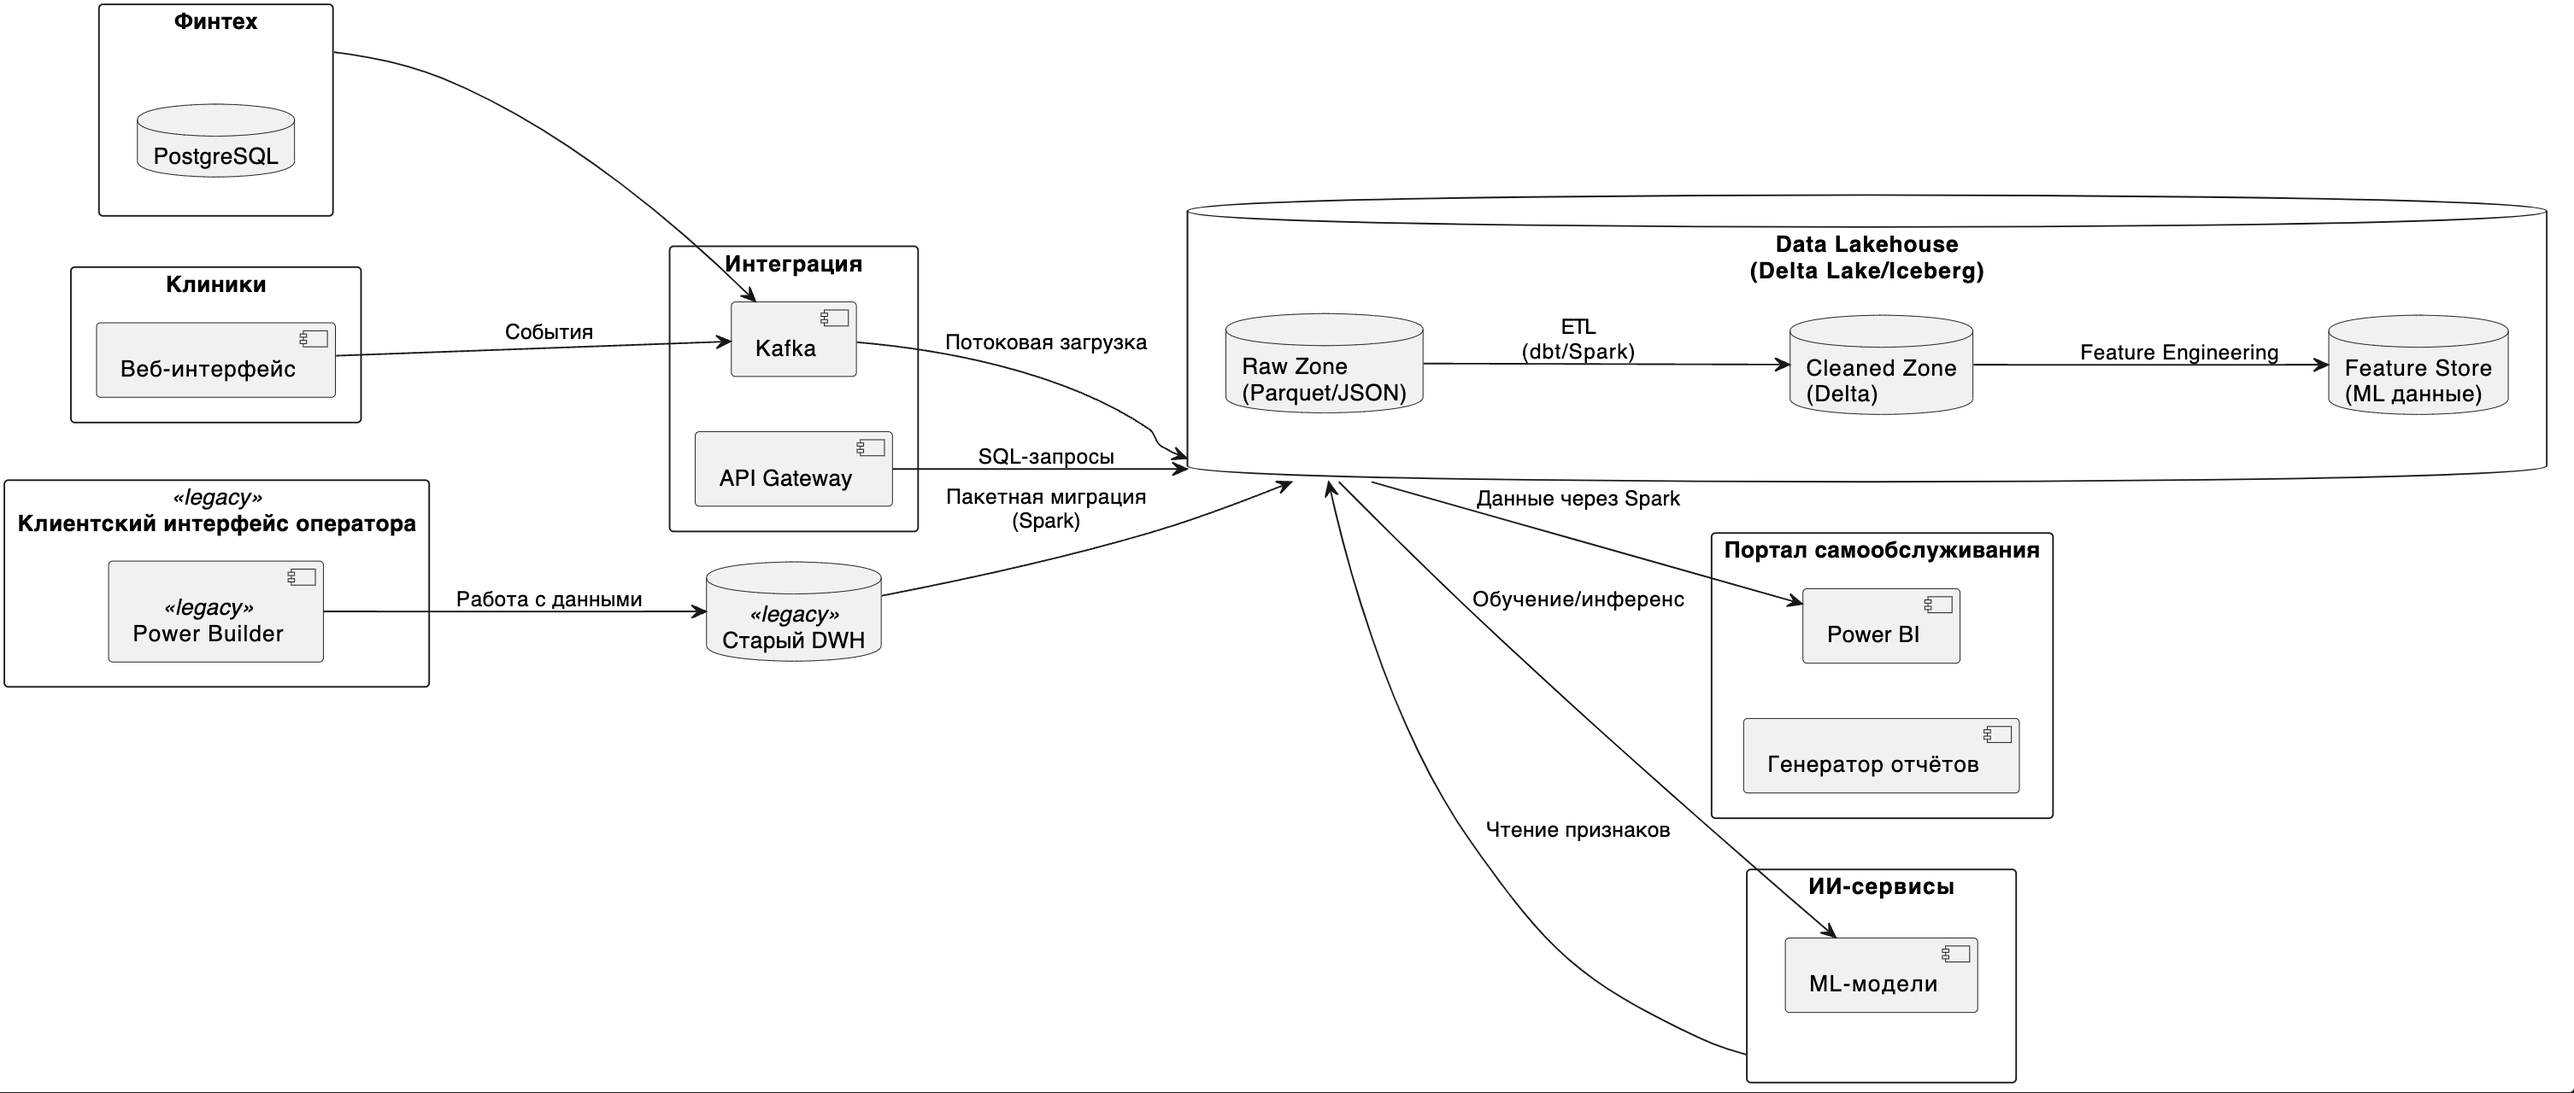
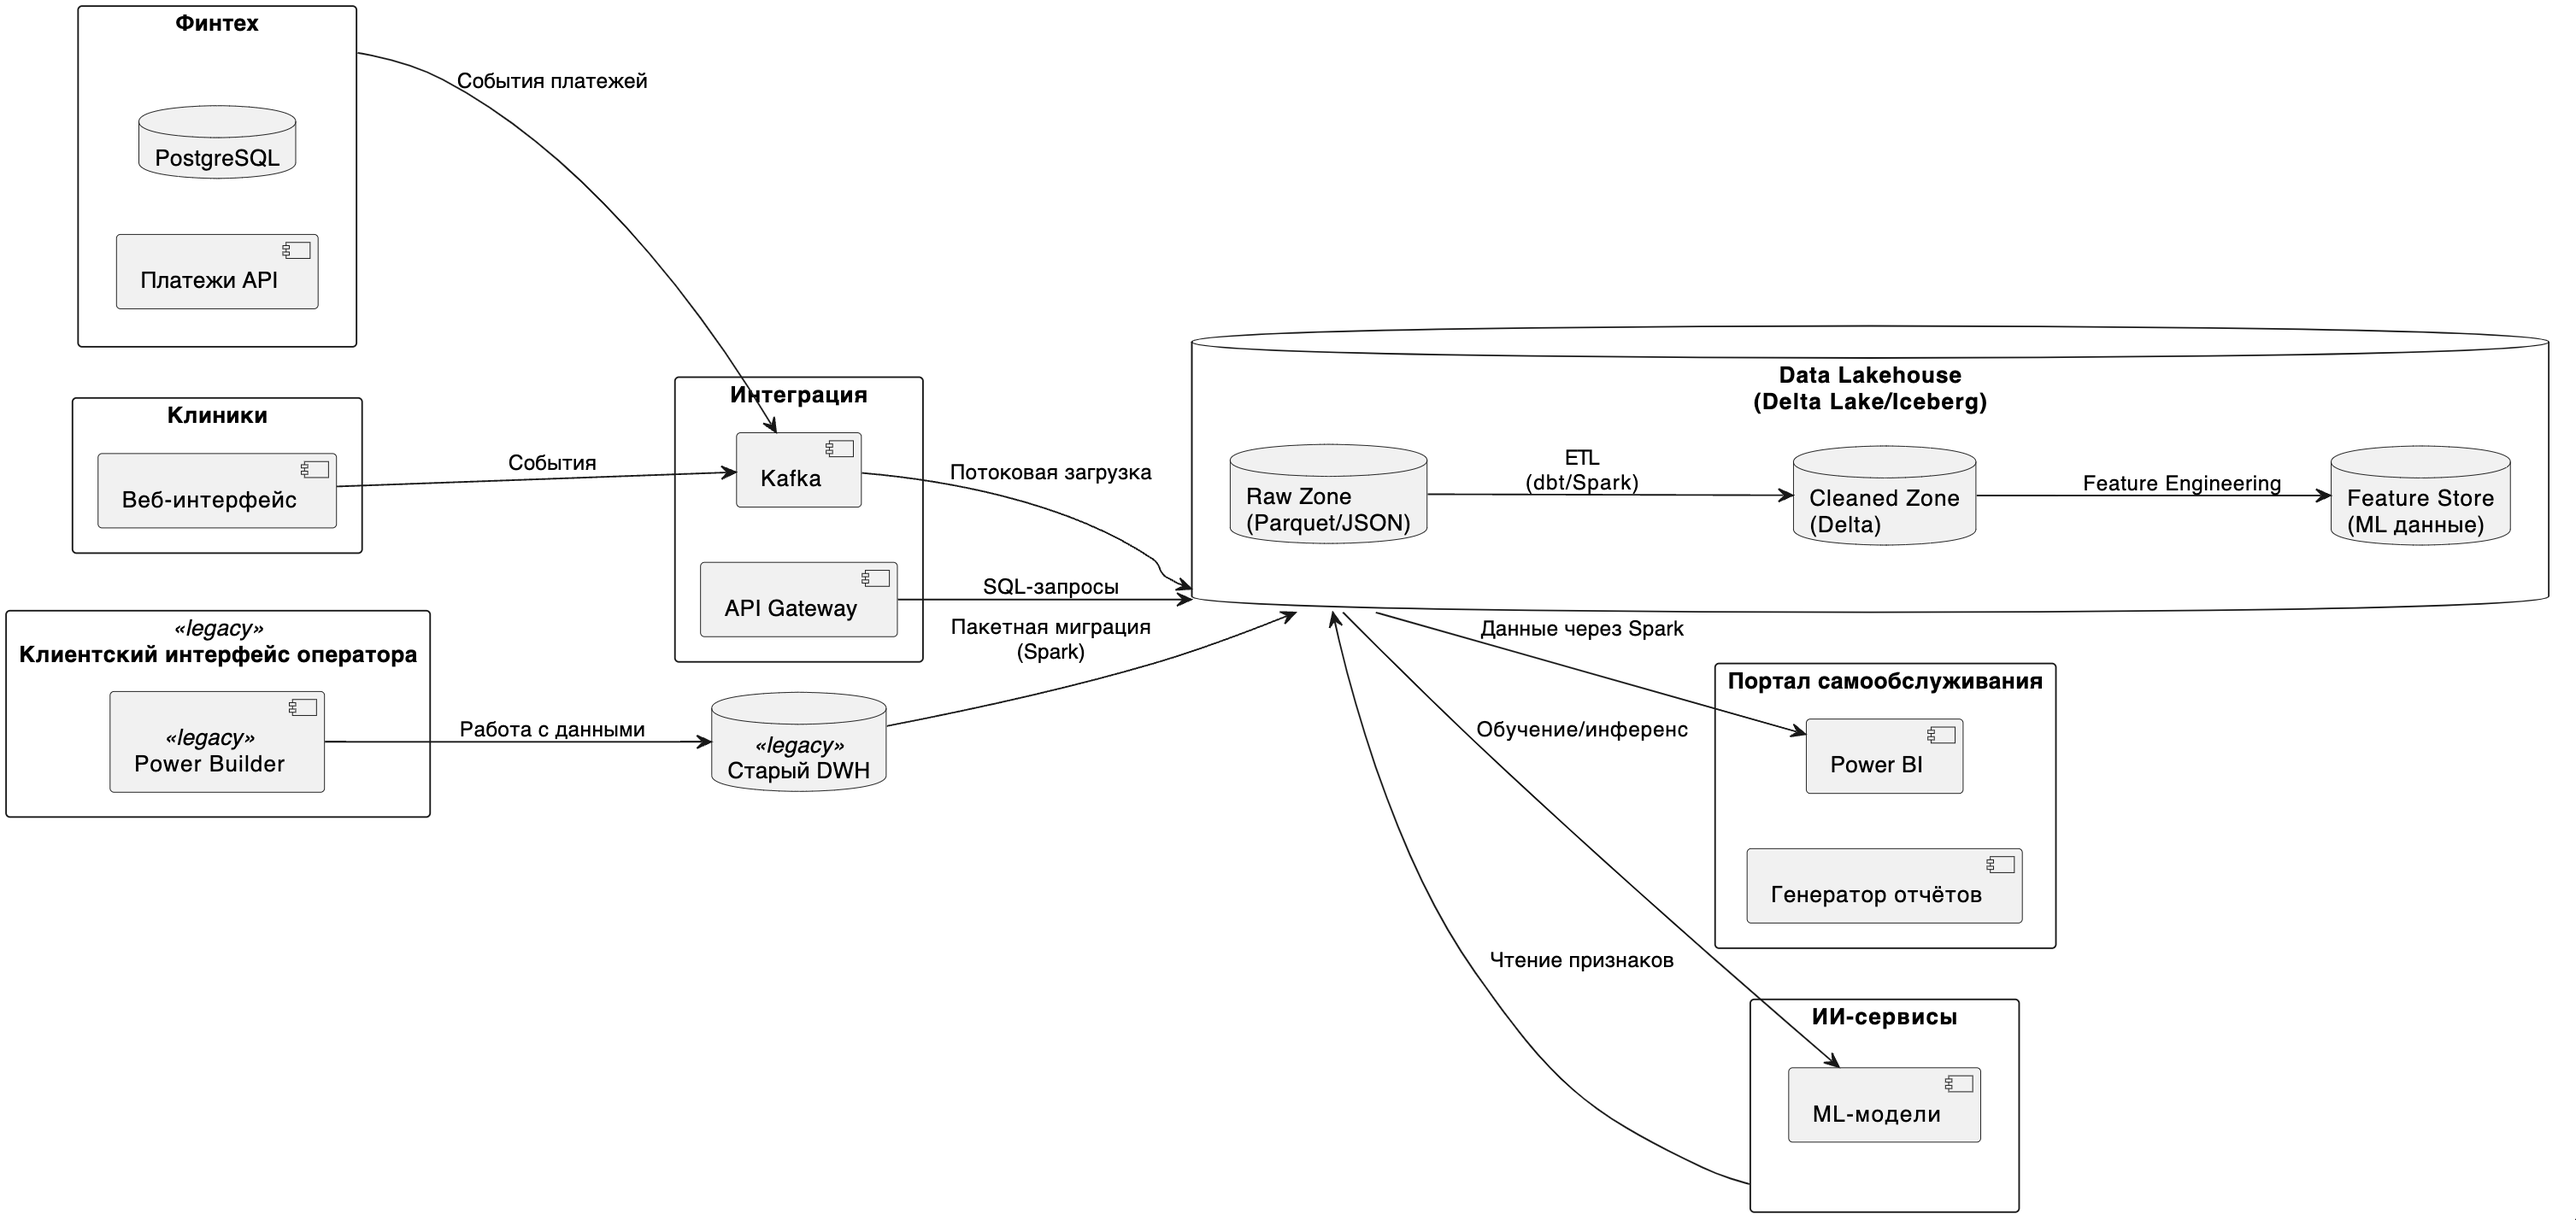
review

diff --git a/Task1/README.md b/Task1/README.md
@@ -1,3 +1,41 @@
+# Описание обновленной архитектуры системы Будущее 2.0
+
+## Цель 
+
+- Изменение IT-ландшафта в области работы с данными для возможности интеграции новых бизнесов
+
+## Ключевые компоненты
+
+### Data Lakehouse (Delta Lake/Iceberg) - единое хранилище для
+   - Raw Zone: Сырые данные в Parquet/JSON
+   - Cleaned Zone: Очищенные таблицы в Delta-формате
+   - Feature Store: Готовые признаки для ML
+
+### Интеграционный слой
+   - Kafka - шина событий для междоменного взаимодействия
+   - API Gateway - единая точка входа для запросов к данным
+
+### Легаси-системы (постепенно выводятся из эксплуатации)
+  - Старый DWH (MS SQL 2008)
+  - Power Builder - клиентский интерфейс для операторов (мигрирует на веб)
+
+### Потоки данных
+  - Клиники -> Kafka -> Lakehouse (потоковые данные)
+  - Старый DWH -> Spark -> Lakehouse (пакетная миграция)
+  - Финтех -> PostgreSQL (транзакции) -> Kafka -> Lakehouse (аналитика)
+  - ИИ-сервисы читают признаки из Feature Store
+
+### Технологический стек
+  - Хранилище: Delta Lake/Iceberg на S3
+  - Обработка: Apache Spark, dbt
+  - Интеграция: Kafka, REST API
+  - BI: Power BI + Superset (портал самообслуживания)
+
+### Ооганичения
+  - Легаси-системы остаются до полной миграции
+
+
+
 # Риски перехода на новую архитектуру данных (Будущее 2.0)
 
 ## 🚨 Критические риски (Must have)
